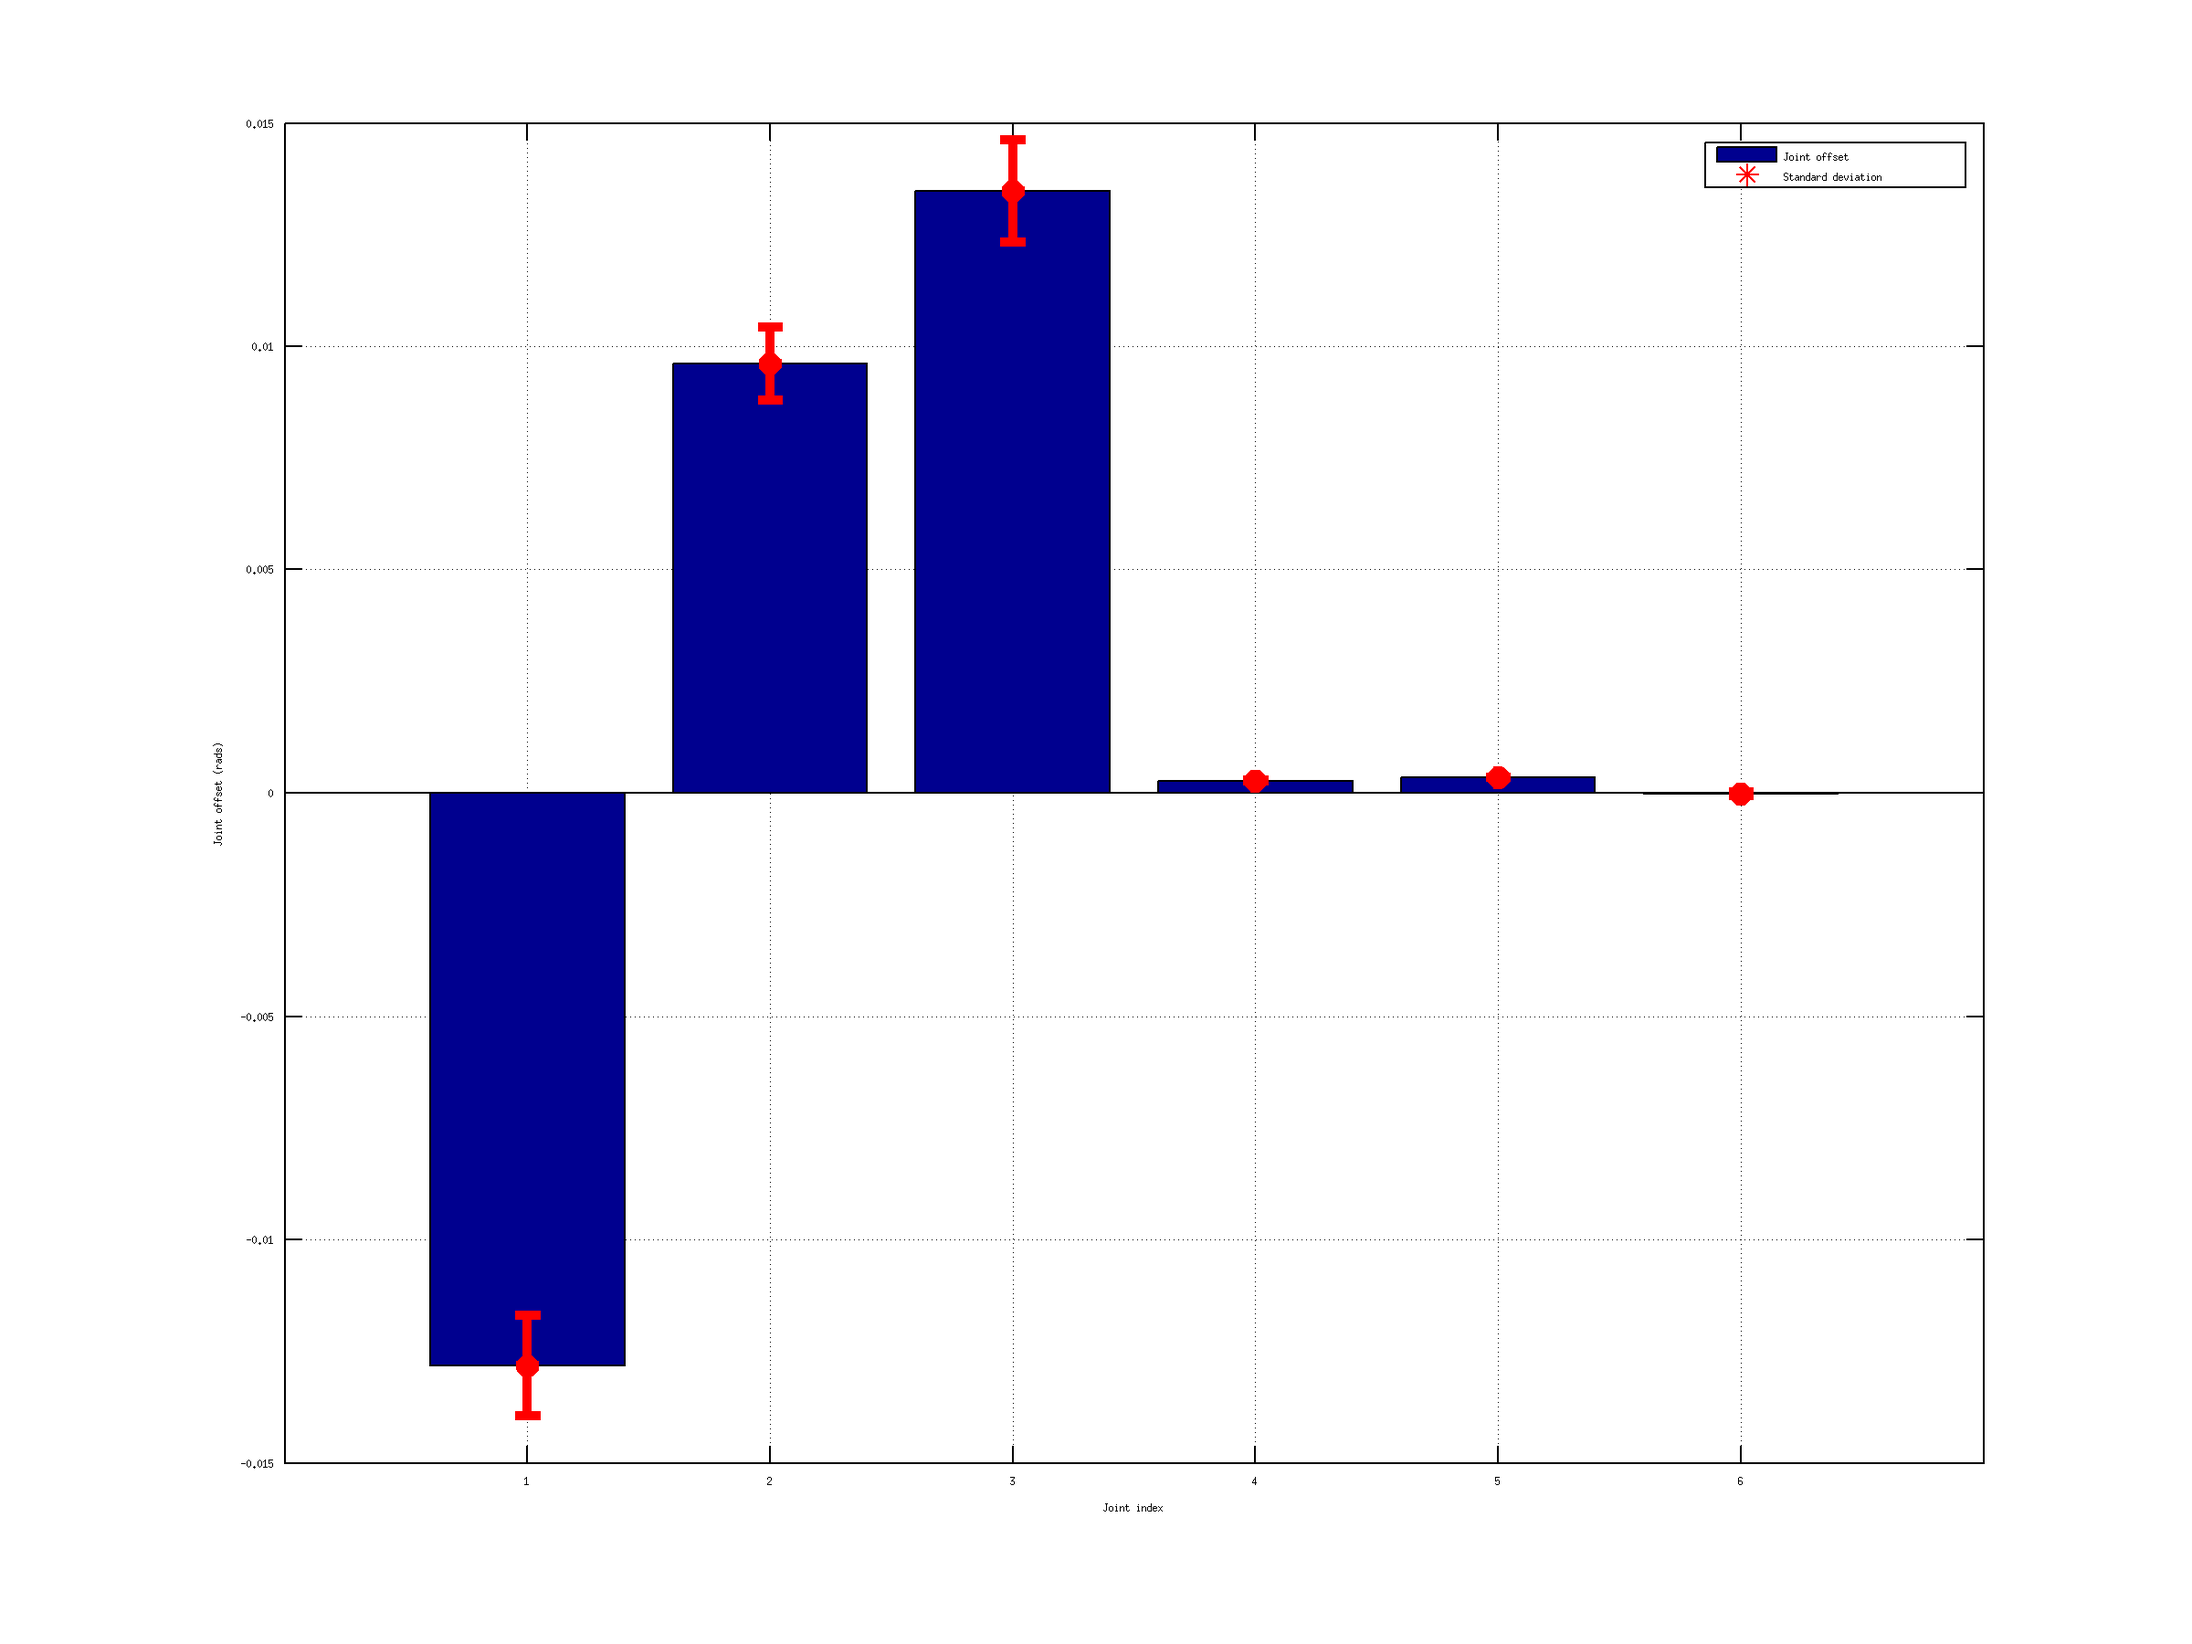
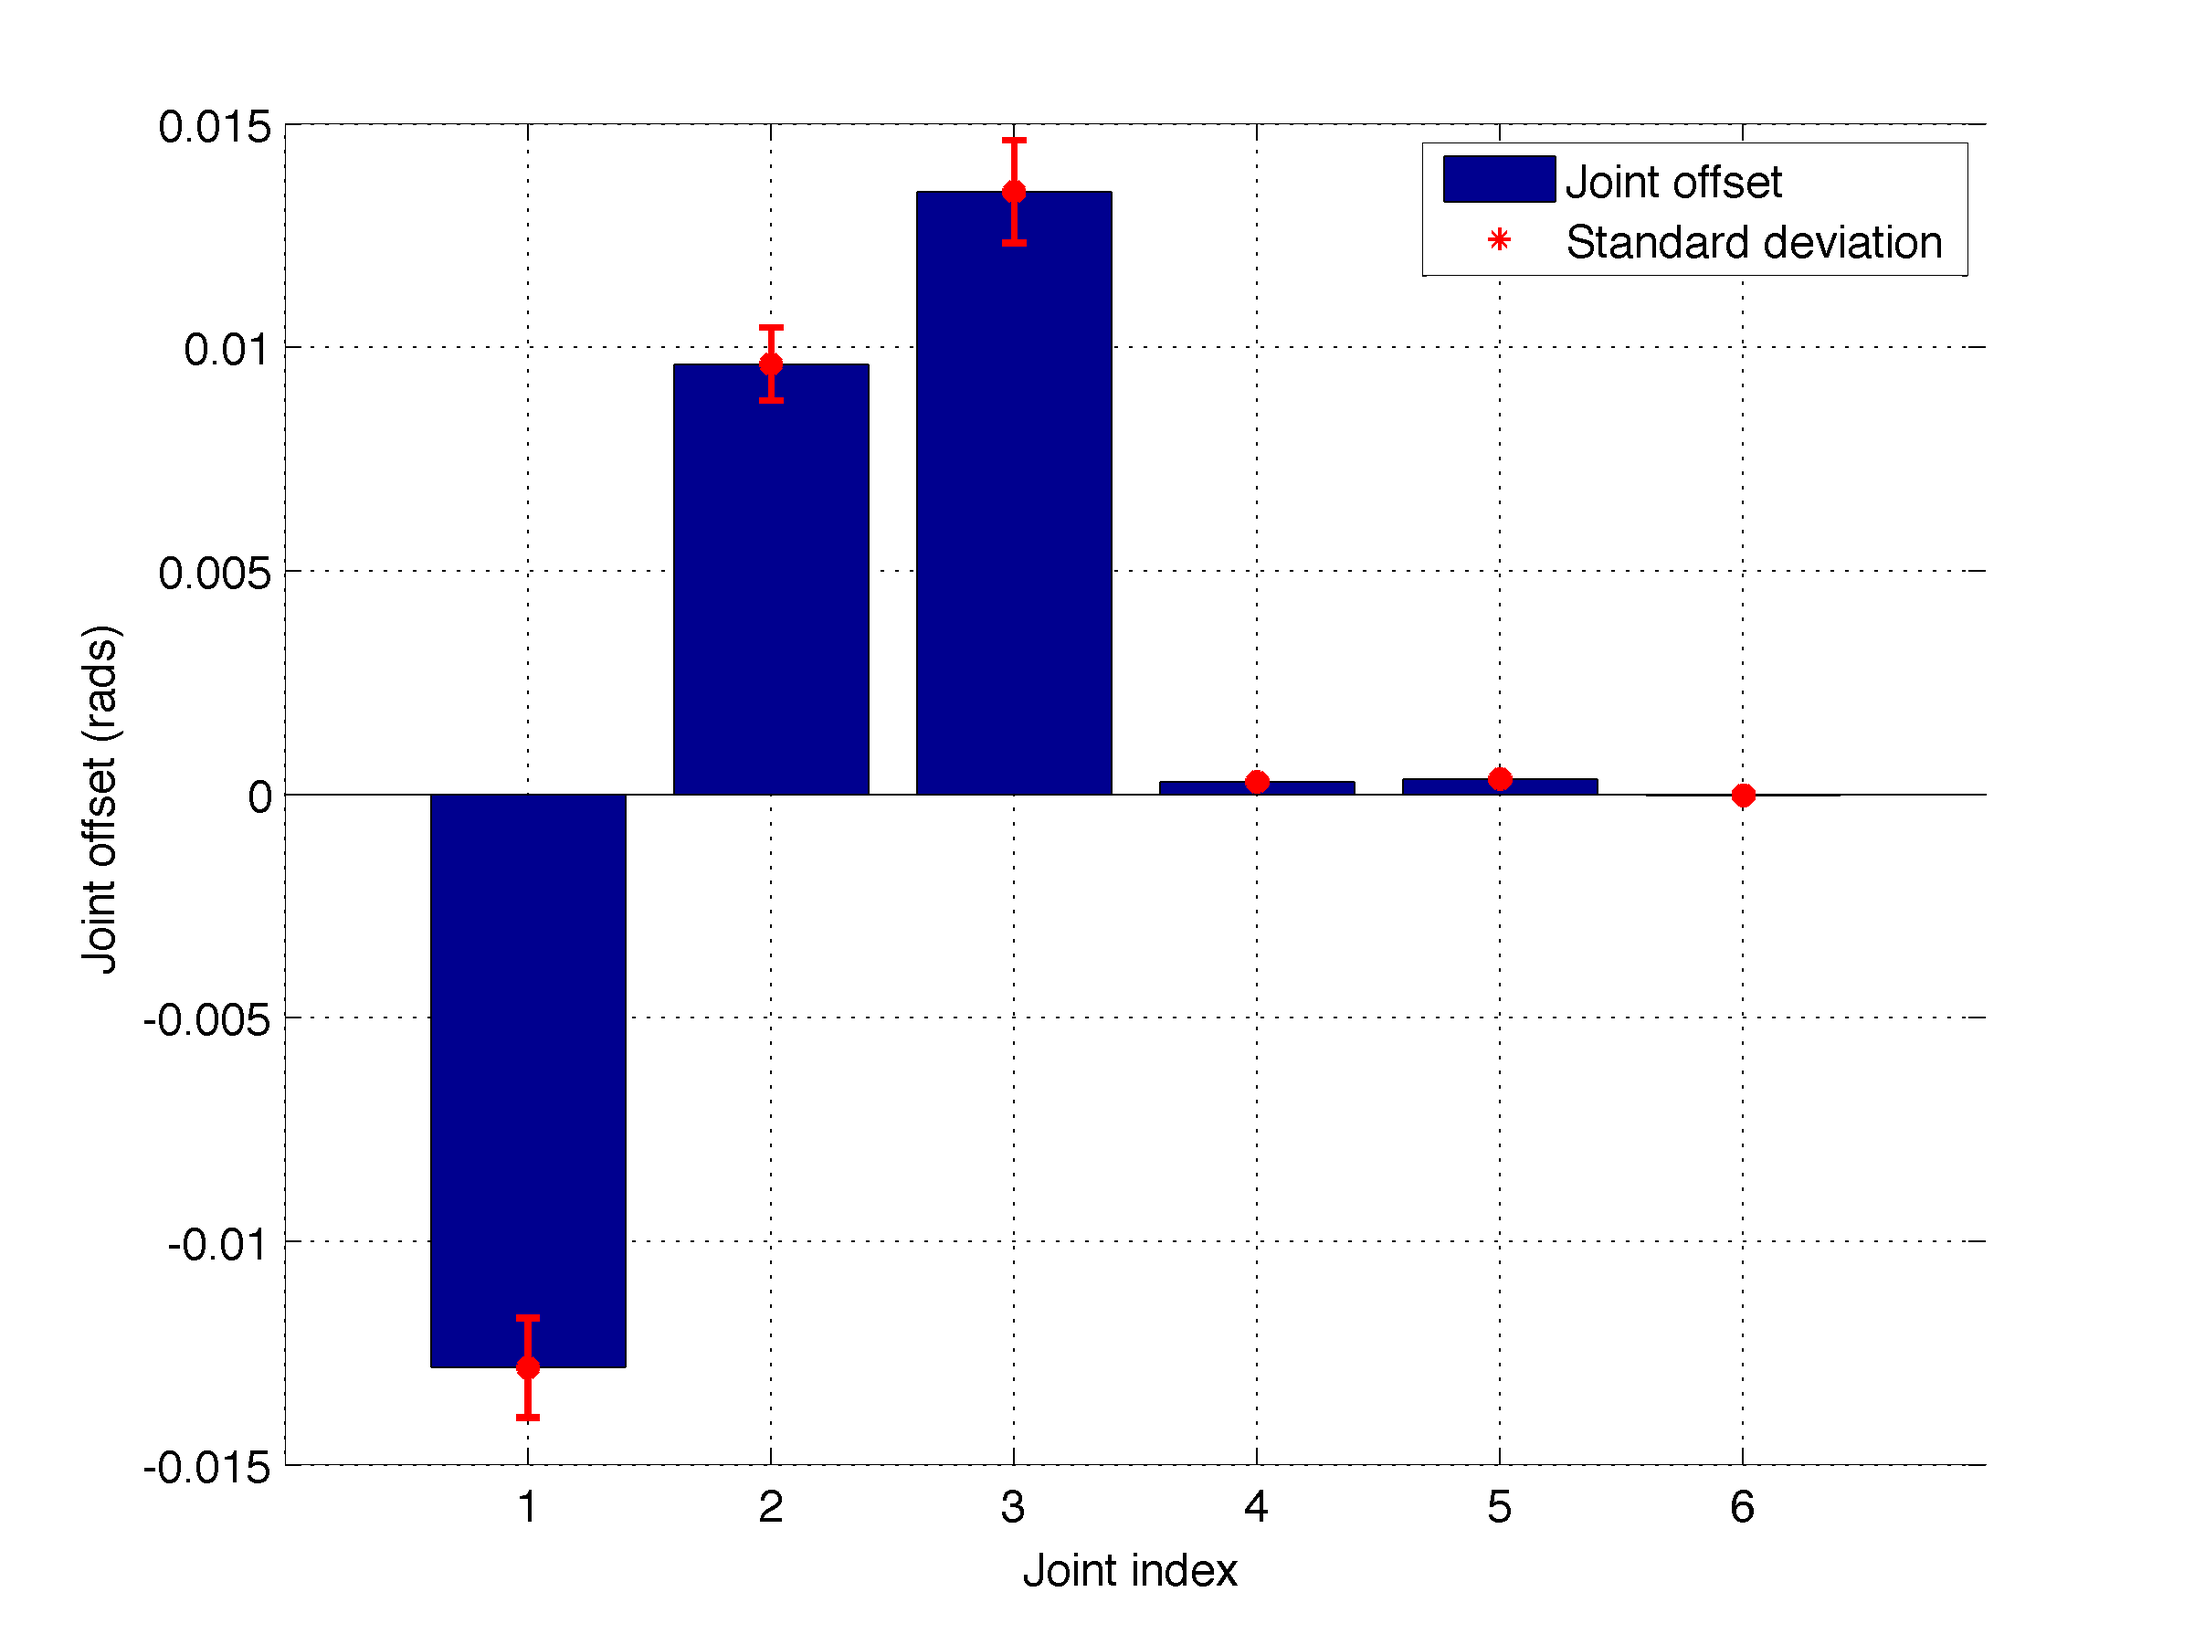
improved plots

diff --git a/src/EncodersAutoCalib/plotResults.m b/src/EncodersAutoCalib/plotResults.m
@@ -18,15 +18,15 @@ plot(data.time(1:tMaxIndex),yAcc(:, 1:tMaxIndex),'lineWidth',2.0);
 axis tight;
 grid on;
 legend('Acc3','Acc4','Acc6','Acc7','Acc8','Acc12');
-xlabel('Time (sec)');
-ylabel('Acceleration (m/sec^2)');
-
+xlabel('Time (sec)','Fontsize',12);
+ylabel('Acceleration (m/sec^2)','Fontsize',12);
+set(gca,'FontSize',12);
 print('-dpng','-r300','-opengl','./figs/rawAccData');
 
 figure;
 bar(mean(optimalDq,2));
-xlabel('Joint index');
-ylabel('Joint offset (rads)');
+xlabel('Joint index','Fontsize',12);
+ylabel('Joint offset (rads)','Fontsize',12);
 grid on;
 
 hold on;
@@ -35,7 +35,7 @@ errorbar(mean(optimalDq,2),std_optDq,'r*','lineWidth',2.5);
 legend('Joint offset','Standard deviation');
 
 
-set(gca,'FontSize',16);
+set(gca,'FontSize',12);
 print('-dpng','-r300','-opengl','./figs/optimResult');
 
 

diff --git a/src/Test/PositionTrackingAccuracy/plotResults.m b/src/Test/PositionTrackingAccuracy/plotResults.m
@@ -46,15 +46,15 @@ for i = 1:length(testMats)
     figure(i);
 
     plot(testMats{i}.t(1:testMats{i}.tMaxInd),testMats{i}.err(1:testMats{i}.tMaxInd,:),'lineWidth',2.0);
-    xlabel('Time (sec)','FontSize',20);
-    ylabel('Joint Position (degrees)','FontSize',20);
+    xlabel('Time (sec)','FontSize',12);
+    ylabel('Joint Position (degrees)','FontSize',12);
     hl = legend('e_q_1','e_q_2','e_q_3','e_q_4','e_q_5','e_q_6');
-    set(hl,'FontSize',20);
+    set(hl,'FontSize',12);
     axis tight;
     grid on;
     %title(testMats{i}.titl,'FontSize',16);
     
-    set(gca,'FontSize',20);
+    set(gca,'FontSize',12);
     print('-dpng','-r300','-opengl',strcat('./figs/',testMats{i}.saveName));
     %     figure(length(testMats)+i);
 % 

diff --git a/src/EncodersAutoCalib/getOptimConfig.m b/src/EncodersAutoCalib/getOptimConfig.m
@@ -52,7 +52,7 @@ switch funcName
         %
         dfltOptions = optimset('lsqnonlin'); % Algorithm = 'trust-region-reflective'
         options = optimset(dfltOptions,'TolFun', TolFun, 'TolX', TolX, 'FunValCheck', FunValCheck, ...
-            'Algorithm', Algorithm);%, 'Display', Display, 'PlotFcns', PlotFcns);
+            'Algorithm', Algorithm, 'Display', Display, 'PlotFcns', PlotFcns);
         
     otherwise
 end
